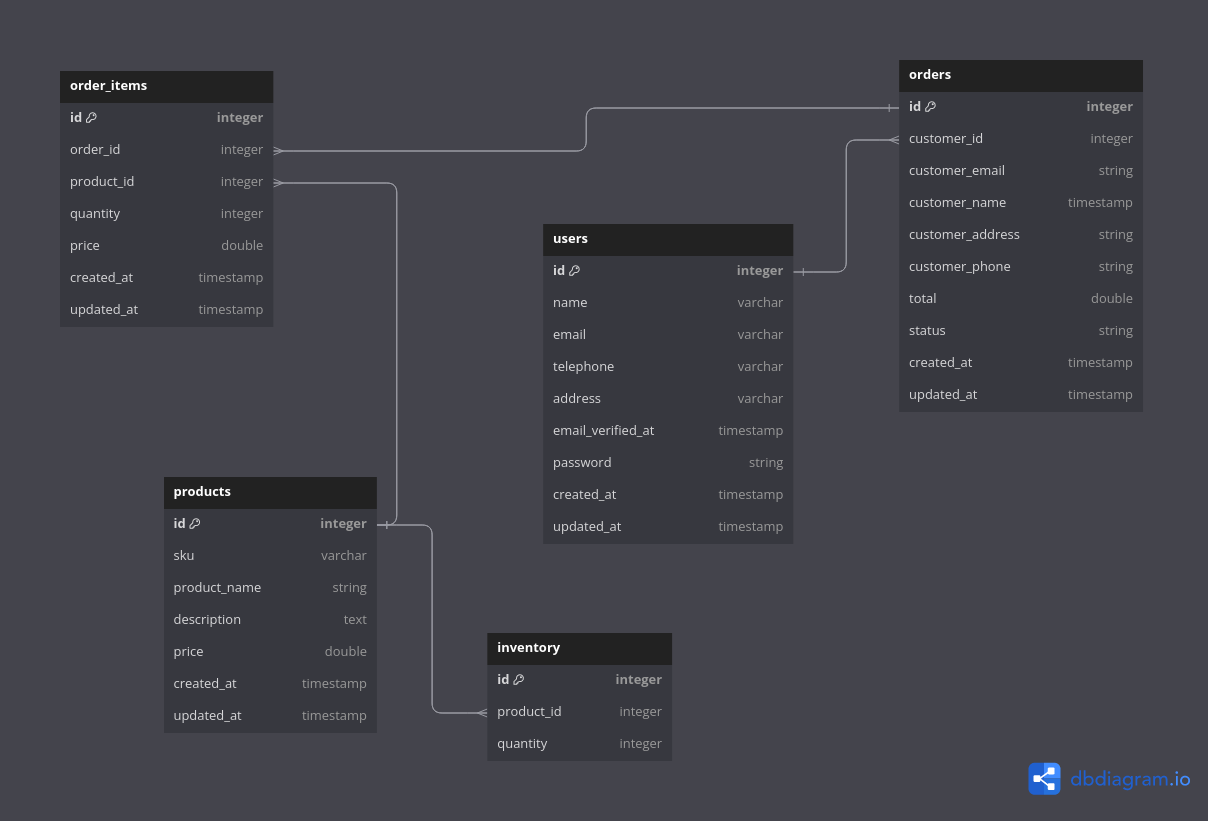
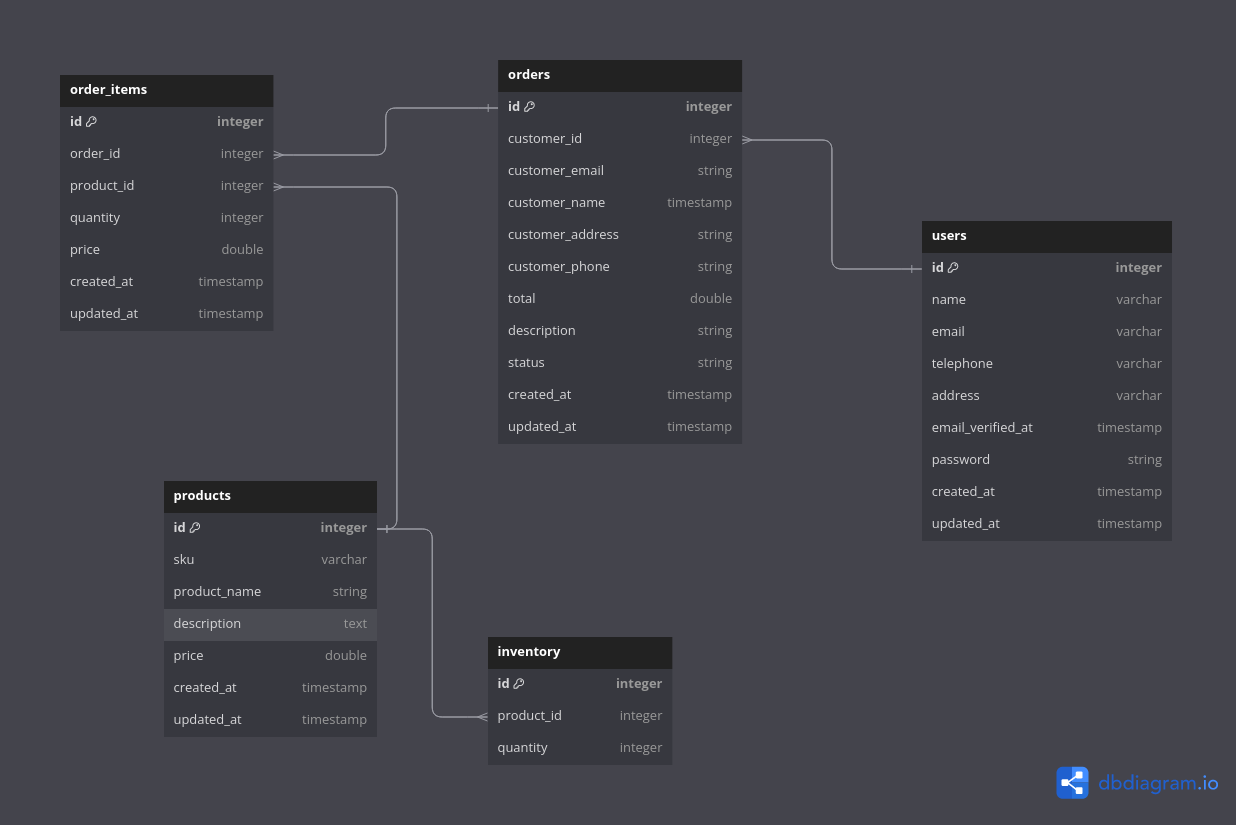
add indexes on orders and products and description field

diff --git a/database/migrations/2024_11_27_205344_add_index_to_orders_table.php b/database/migrations/2024_11_27_205344_add_index_to_orders_table.php
@@ -1,0 +1,38 @@
+<?php
+declare(strict_types=1);
+
+use Illuminate\Database\Migrations\Migration;
+use Illuminate\Database\Schema\Blueprint;
+use Illuminate\Support\Facades\Schema;
+
+/**
+ * Add indexes on customer_name customer_email and description of the Order Table
+ *
+ * @class AddIndexToOrdersTable
+ * @package
+ */
+class AddIndexToOrdersTable extends Migration
+{
+    /**
+     * @return void
+     */
+    public function up()
+    {
+        Schema::table('orders', function (Blueprint $table) {
+            $table->index(
+                ['customer_name', 'customer_email', 'description'],
+                'customer_name_customer_email_description_index'
+            );
+        });
+    }
+
+    /**
+     * @return void
+     */
+    public function down()
+    {
+        Schema::table('orders', function (Blueprint $table) {
+            $table->dropIndex('customer_name_customer_email_description_index');
+        });
+    }
+}

diff --git a/database/migrations/2024_11_27_210027_add_index_to_products_table.php b/database/migrations/2024_11_27_210027_add_index_to_products_table.php
@@ -1,0 +1,38 @@
+<?php
+declare(strict_types=1);
+
+use Illuminate\Database\Migrations\Migration;
+use Illuminate\Database\Schema\Blueprint;
+use Illuminate\Support\Facades\Schema;
+
+/**
+ * Add indexes on customer_name customer_email and description of the Order Table
+ *
+ * @class AddIndexToOrdersTable
+ * @package
+ */
+class AddIndexToProductsTable extends Migration
+{
+    /**
+     * @return void
+     */
+    public function up()
+    {
+        Schema::table('products', function (Blueprint $table) {
+            $table->index(
+                ['product_name', 'sku', 'description'],
+                'product_name_sku_description_index'
+            );
+        });
+    }
+
+    /**
+     * @return void
+     */
+    public function down()
+    {
+        Schema::table('orders', function (Blueprint $table) {
+            $table->dropIndex('product_name_sku_description_index');
+        });
+    }
+}

diff --git a/app/Http/Controllers/OrderController.php b/app/Http/Controllers/OrderController.php
@@ -75,7 +75,7 @@ class OrderController extends Controller
                     'customer_email' => $validated['customer_email'],
                     'customer_address' => $validated['customer_address'],
                     'customer_phone' => $validated['customer_address'],
-                    'description' => $validated['description'],
+                    'description' => $validated['description'] ?? null,
                     'status' => Order::ORDER_STATUS_PENDING,
                 ]);
 

diff --git a/database/migrations/2024_11_24_140450_create_orders_table.php b/database/migrations/2024_11_24_140450_create_orders_table.php
@@ -22,6 +22,7 @@ class CreateOrdersTable extends Migration
             $table->string('customer_address');
             $table->string('customer_phone')->default('')->nullable();
             $table->decimal('total', 8, 2)->default(0);
+            $table->string('description')->nullable();
             $table->string('status')->default('pending');
             $table->timestamps();
 

diff --git a/database/migrations/2024_11_24_150319_create_products_table.php b/database/migrations/2024_11_24_150319_create_products_table.php
@@ -17,7 +17,7 @@ class CreateProductsTable extends Migration
             $table->id();
             $table->string('sku')->unique();
             $table->string('product_name');
-            $table->text('description')->nullable();
+            $table->string('description')->nullable();
             $table->decimal('price', 8, 2);
             $table->timestamps();
         });
